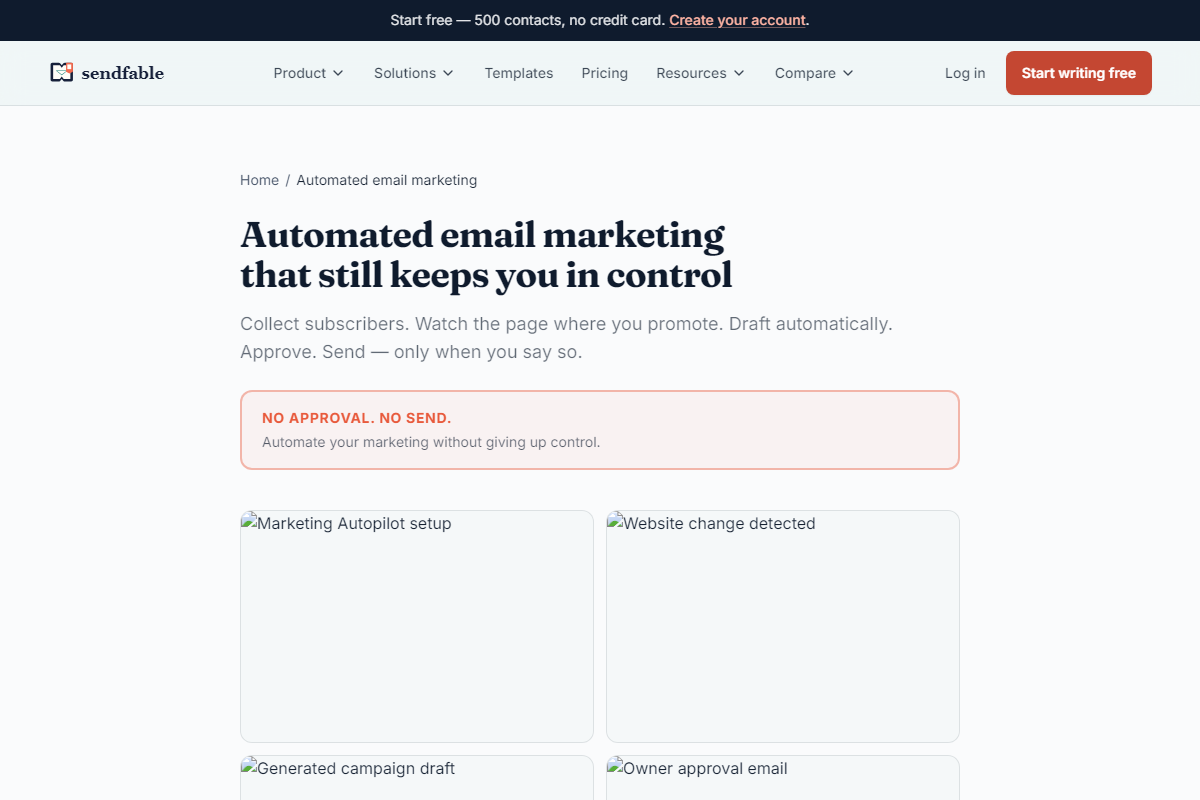
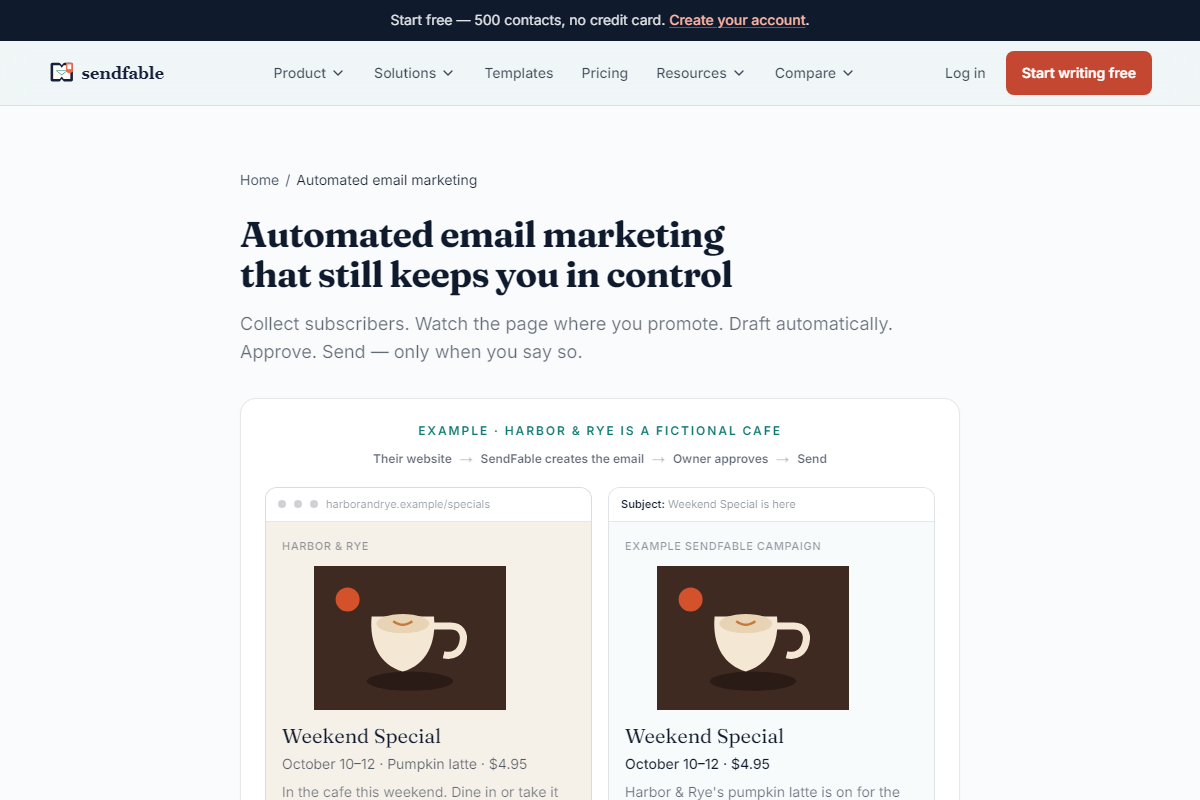
Show how a website special becomes an approved SendFable campaign.
Put a fictional cafe example on the homepage and Autopilot page, and state the live draft limits.

diff --git a/src/components/marketing/website-to-email-proof.tsx b/src/components/marketing/website-to-email-proof.tsx
@@ -1,0 +1,119 @@
+/**
+ * Controlled example: a fictional cafe page becomes a campaign the owner approves.
+ * Not a real business, and not a live send control.
+ */
+
+function LatteArt() {
+  return (
+    <svg viewBox="0 0 160 120" className="h-full w-full" aria-hidden>
+      <rect width="160" height="120" fill="#3f2a22" />
+      <ellipse cx="80" cy="96" rx="36" ry="8" fill="#2a1b16" />
+      <path d="M48 42h52c2 22-6 40-26 46-20-6-28-24-26-46z" fill="#f4e7d4" />
+      <path d="M100 50h14c8 0 12 6 10 14s-8 12-16 10" fill="none" stroke="#f4e7d4" strokeWidth="6" />
+      <ellipse cx="74" cy="48" rx="22" ry="8" fill="#e8d3b4" />
+      <path d="M66 46c6 4 10 4 16 0" fill="none" stroke="#c47a3a" strokeWidth="2" />
+      <circle cx="28" cy="28" r="10" fill="#e4572e" opacity="0.9" />
+    </svg>
+  );
+}
+
+const STEPS = ["Their website", "SendFable creates the email", "Owner approves", "Send"];
+
+export function WebsiteToEmailProof() {
+  return (
+    <figure className="rounded-2xl border border-ink/10 bg-white p-4 shadow-sm sm:p-6">
+      <figcaption className="text-center text-xs font-semibold uppercase tracking-[0.16em] text-teal">
+        Example · Harbor &amp; Rye is a fictional cafe
+      </figcaption>
+      <ol className="mt-3 flex flex-wrap items-center justify-center gap-x-2 gap-y-1 text-xs font-semibold text-ink/70">
+        {STEPS.map((step, i) => (
+          <li key={step} className="flex items-center gap-2">
+            {i > 0 && (
+              <span aria-hidden className="text-ink/30">
+                →
+              </span>
+            )}
+            {step}
+          </li>
+        ))}
+      </ol>
+
+      <div className="mt-5 grid items-stretch gap-4 lg:grid-cols-2">
+        <div className="overflow-hidden rounded-xl border border-ink/10 bg-[#f6f1e8]">
+          <div className="flex items-center gap-2 border-b border-ink/10 bg-white px-3 py-2">
+            <span className="h-2 w-2 rounded-full bg-ink/20" aria-hidden />
+            <span className="h-2 w-2 rounded-full bg-ink/20" aria-hidden />
+            <span className="h-2 w-2 rounded-full bg-ink/20" aria-hidden />
+            <p className="truncate text-[11px] text-ink/50">harborandrye.example/specials</p>
+          </div>
+          <div className="p-4">
+            <p className="text-[11px] font-semibold uppercase tracking-wider text-ink/45">
+              Harbor &amp; Rye
+            </p>
+            <div className="mt-3 overflow-hidden rounded-lg">
+              <div className="aspect-[16/9] max-h-36">
+                <LatteArt />
+              </div>
+            </div>
+            <h3 className="mt-3 font-display text-xl text-ink">Weekend Special</h3>
+            <p className="mt-1 text-sm text-ink/70">October 10–12 · Pumpkin latte · $4.95</p>
+            <p className="mt-2 text-sm text-ink/60">
+              In the cafe this weekend. Dine in or take it to go.
+            </p>
+            <p className="mt-3 inline-block rounded-md bg-ink px-3 py-1.5 text-xs font-semibold text-white">
+              See the special
+            </p>
+          </div>
+        </div>
+
+        <div className="overflow-hidden rounded-xl border border-ink/10 bg-parchment/40">
+          <div className="border-b border-ink/10 bg-white px-3 py-2 text-[11px] text-ink/55">
+            <span className="font-semibold text-ink">Subject:</span> Weekend Special is here
+          </div>
+          <div className="p-4">
+            <p className="text-[11px] font-semibold uppercase tracking-wider text-ink/45">
+              Example SendFable campaign
+            </p>
+            <div className="mt-3 overflow-hidden rounded-lg">
+              <div className="aspect-[16/9] max-h-36">
+                <LatteArt />
+              </div>
+            </div>
+            <h3 className="mt-3 font-display text-xl text-ink">Weekend Special</h3>
+            <p className="mt-1 text-sm font-medium text-ink">October 10–12 · $4.95</p>
+            <p className="mt-2 text-sm text-ink/65">
+              Harbor &amp; Rye&apos;s pumpkin latte is on for the weekend.
+            </p>
+            <p className="mt-3 inline-block rounded-md bg-coral-solid px-3 py-1.5 text-xs font-semibold text-white">
+              See the special
+            </p>
+          </div>
+        </div>
+      </div>
+
+      <div
+        className="mt-4 rounded-xl border border-ink/10 bg-page px-4 py-3"
+        role="group"
+        aria-label="Example approval choices. These are not live send controls."
+      >
+        <p className="text-center text-[11px] font-semibold uppercase tracking-wider text-ink/45">
+          You choose
+        </p>
+        <div className="mt-2 flex flex-wrap items-center justify-center gap-2">
+          <span className="rounded-md bg-teal px-3 py-2 text-sm font-semibold text-white">
+            Approve &amp; send
+          </span>
+          <span className="rounded-md border border-ink/15 bg-white px-3 py-2 text-sm font-semibold text-ink">
+            Edit
+          </span>
+          <span className="rounded-md border border-ink/15 bg-white px-3 py-2 text-sm font-semibold text-ink">
+            Don&apos;t send
+          </span>
+        </div>
+        <p className="mt-3 text-center text-sm font-bold uppercase tracking-wider text-coral">
+          No approval. No send.
+        </p>
+      </div>
+    </figure>
+  );
+}

diff --git a/src/app/(marketing)/automated-email-marketing/page.tsx b/src/app/(marketing)/automated-email-marketing/page.tsx
@@ -4,6 +4,8 @@ import { Breadcrumbs } from "@/components/marketing/breadcrumbs";
 import { Faq } from "@/components/marketing/faq";
 import { MarketingCta } from "@/components/marketing/marketing-cta";
 import { marketingPageMeta, JsonLd } from "@/components/marketing/json-ld";
+import { WebsiteToEmailProof } from "@/components/marketing/website-to-email-proof";
+import { autopilotMaxDraftsPerMonth } from "@/lib/autopilot/plans";
 import { PLANS } from "@/lib/plans";
 
 export const metadata = marketingPageMeta({
@@ -63,7 +65,7 @@ const FAQS = [
   },
   {
     q: "Which plans include Marketing Autopilot?",
-    a: `Free can enable a weekly demo. Starter ($${PLANS.STARTER.monthlyPrice}/mo) includes daily checks. Growth+ can check twice daily. Operating cost stays tiny because we only generate when a meaningful change is detected.`,
+    a: `Free includes weekly checks and ${autopilotMaxDraftsPerMonth("FREE")} drafts a month. Starter ($${PLANS.STARTER.monthlyPrice}/mo) checks daily, up to ${autopilotMaxDraftsPerMonth("STARTER")} drafts a month. Growth and above can check twice a day, up to ${autopilotMaxDraftsPerMonth("GROWTH")} drafts a month. A draft is created only when the page actually changes.`,
   },
   {
     q: "Does Autopilot send texts too?",
@@ -99,6 +101,10 @@ export default function AutomatedEmailMarketingPage() {
         only when you say so.
       </p>
 
+      <div className="mt-8">
+        <WebsiteToEmailProof />
+      </div>
+
       <div className="mt-6 rounded-xl border-2 border-coral/40 bg-coral/5 px-5 py-4">
         <p className="text-sm font-bold uppercase tracking-wider text-coral">No approval. No send.</p>
         <p className="mt-1 text-sm text-ink/70">
@@ -125,9 +131,11 @@ export default function AutomatedEmailMarketingPage() {
               <img
                 src="/product/autopilot-flow.svg"
                 alt={img.alt}
-                className="h-auto w-full"
+                className="h-auto w-full bg-[#f7f3eb] object-contain"
                 width={640}
                 height={420}
+                loading="lazy"
+                decoding="async"
               />
             </picture>
           </figure>
@@ -218,12 +226,16 @@ export default function AutomatedEmailMarketingPage() {
       <section className="mt-16">
         <h2 className="text-2xl font-semibold text-ink">Availability</h2>
         <ul className="mt-4 list-disc space-y-2 pl-5 text-sm text-ink/70">
-          <li>Free — weekly checks, limited drafts (try it)</li>
           <li>
-            Starter (${PLANS.STARTER.monthlyPrice}/mo) — daily Marketing Autopilot
+            Free — weekly checks, {autopilotMaxDraftsPerMonth("FREE")} drafts a month
           </li>
           <li>
-            Growth+ (${PLANS.GROWTH.monthlyPrice}/mo and up) — twice-daily checks
+            Starter (${PLANS.STARTER.monthlyPrice}/mo) — daily checks,{" "}
+            {autopilotMaxDraftsPerMonth("STARTER")} drafts a month
+          </li>
+          <li>
+            Growth and above (${PLANS.GROWTH.monthlyPrice}/mo and up) — twice-daily checks,{" "}
+            {autopilotMaxDraftsPerMonth("GROWTH")} drafts a month
           </li>
         </ul>
       </section>

diff --git a/src/components/marketing/home/marketing-autopilot.tsx b/src/components/marketing/home/marketing-autopilot.tsx
@@ -1,5 +1,6 @@
 import Link from "next/link";
 import { Button } from "@/components/ui/button";
+import { WebsiteToEmailProof } from "@/components/marketing/website-to-email-proof";
 
 const STEPS = [
   { n: "1", title: "Collect", body: "Customer joins your list." },
@@ -31,7 +32,7 @@ export function MarketingAutopilotHome() {
   return (
     <section
       id="marketing-autopilot"
-      className="relative overflow-hidden border-b border-ink/10 bg-gradient-to-b from-parchment via-page to-teal/5 py-20 sm:py-28"
+      className="relative scroll-mt-24 overflow-hidden border-b border-ink/10 bg-gradient-to-b from-parchment via-page to-teal/5 py-20 sm:py-28"
     >
       <div className="pointer-events-none absolute inset-0 opacity-[0.07]" aria-hidden>
         <div className="absolute -left-20 top-10 h-64 w-64 rounded-full bg-coral blur-3xl" />
@@ -51,13 +52,16 @@ export function MarketingAutopilotHome() {
             You approve it.
           </h2>
           <p className="mx-auto mt-4 max-w-2xl text-base text-charcoal/75 sm:text-lg">
-            Collect customers with SendFable forms, point SendFable at the page where you post
-            specials, events, products or news, and get a ready-to-send campaign when something
-            worth sharing changes.
+            Post a special, event, product, or update on your website. SendFable can turn it into a
+            ready-to-send campaign and wait for your approval.
           </p>
           <p className="mt-4 text-sm font-bold uppercase tracking-wider text-coral">
             No approval. No send.
           </p>
+        </div>
+
+        <div className="mx-auto mt-10 max-w-5xl">
+          <WebsiteToEmailProof />
         </div>
 
         <div className="mx-auto mt-12 grid max-w-5xl gap-4 md:grid-cols-3">
@@ -77,7 +81,9 @@ export function MarketingAutopilotHome() {
                   alt={s.alt}
                   width={640}
                   height={420}
-                  className="h-auto w-full object-cover object-top"
+                  loading="lazy"
+                  decoding="async"
+                  className="h-auto w-full bg-[#f7f3eb] object-contain object-top"
                 />
               </picture>
             </figure>

diff --git a/src/app/cert/autopilot-ui/page.tsx b/src/app/cert/autopilot-ui/page.tsx
@@ -21,12 +21,14 @@ export default function AutopilotUiFixturesPage({
         <p className="mb-4 text-center text-xs font-semibold uppercase tracking-wider text-[#0f766e]">
           SendFable · Marketing Autopilot (controlled demo data)
         </p>
-        {view === "setup" && <SetupView />}
-        {view === "detected" && <DetectedView />}
-        {view === "draft" && <DraftView />}
-        {view === "email" && <EmailView />}
-        {view === "confirm" && <ConfirmView />}
-        {view === "result" && <ResultView />}
+        <div id="autopilot-shot">
+          {view === "setup" && <SetupView />}
+          {view === "detected" && <DetectedView />}
+          {view === "draft" && <DraftView />}
+          {view === "email" && <EmailView />}
+          {view === "confirm" && <ConfirmView />}
+          {view === "result" && <ResultView />}
+        </div>
         <nav className="mt-8 flex flex-wrap justify-center gap-2 text-xs text-[#6b7280]">
           {["setup", "detected", "draft", "email", "confirm", "result"].map((v) => (
             <Link key={v} className="underline" href={`/cert/autopilot-ui?view=${v}`}>
@@ -199,7 +201,7 @@ function ResultView() {
         <li>Opens: —</li>
         <li>Status: Completed</li>
       </ul>
-      <p className="mt-4 text-xs text-black/45">Controlled cert result — no customer PII shown.</p>
+      <p className="mt-4 text-xs text-black/45">Demo numbers only. No customer details.</p>
     </Card>
   );
 }

diff --git a/e2e/autopilot-cert.spec.ts b/e2e/autopilot-cert.spec.ts
@@ -6,11 +6,16 @@ import { execFileSync } from "node:child_process";
 const OUT = join(process.cwd(), "docs", "screenshots", "marketing-autopilot");
 const PUBLIC = join(process.cwd(), "public", "product");
 
-async function shot(page: import("@playwright/test").Page, name: string) {
+async function shot(
+  page: import("@playwright/test").Page,
+  name: string,
+  target?: import("@playwright/test").Locator
+) {
   mkdirSync(OUT, { recursive: true });
   mkdirSync(PUBLIC, { recursive: true });
   const pngPath = join(OUT, `${name}.png`);
-  await page.screenshot({ path: pngPath, type: "png", fullPage: false });
+  if (target) await target.screenshot({ path: pngPath, type: "png" });
+  else await page.screenshot({ path: pngPath, type: "png", fullPage: false });
   // Convert to WebP via sharp if available; else keep PNG and copy as fallback
   try {
     // eslint-disable-next-line @typescript-eslint/no-require-imports
@@ -78,7 +83,7 @@ test.describe("Marketing Autopilot certification surfaces", () => {
       await page.setViewportSize({ width: 1200, height: 800 });
       await page.goto(`/cert/autopilot-ui?view=${view}`);
       await expect(page.getByText(/Marketing Autopilot|Campaign|Fall Special|sent/i).first()).toBeVisible();
-      await shot(page, name);
+      await shot(page, name, page.locator("#autopilot-shot"));
     }
 
     await page.goto("/");

diff --git a/src/app/(marketing)/mailchimp-pricing-alternative/page.tsx b/src/app/(marketing)/mailchimp-pricing-alternative/page.tsx
@@ -48,6 +48,16 @@ export default function MailchimpPricingAlternativePage() {
         <li>Pro Plus — ${PLANS.PRO_PLUS.monthlyPrice}/mo · {PLANS.PRO_PLUS.contactCap.toLocaleString()} contacts</li>
       </ul>
 
+      <p className="mt-6 text-sm text-ink/75">
+        Marketing Autopilot is included on those plans. SendFable can watch the page where you
+        already post promotions or events and prepare the customer email for you. Nothing sends
+        until you approve it.{" "}
+        <Link className="text-coral hover:underline" href="/automated-email-marketing">
+          See how it works
+        </Link>
+        .
+      </p>
+
       <h2 className="mt-10 text-xl font-semibold">Approximate Mailchimp snapshot</h2>
       <ul className="mt-3 list-disc space-y-1 pl-5 text-sm text-slate-700">
         {mc.tiers.map((t) => (

diff --git a/src/app/(marketing)/alternatives/mailchimp/page.tsx b/src/app/(marketing)/alternatives/mailchimp/page.tsx
@@ -63,6 +63,10 @@ export default function MailchimpAlternativePage() {
           <li>You want Starter at ${PLANS.STARTER.monthlyPrice}/mo instead of Mailchimp Standard rates near ${mc.tiers.find((t) => t.contacts === 2_500)?.monthlyPrice}/mo at ~2.5k contacts (as of {PRICING_LAST_CHECKED})</li>
           <li>You refuse to require Google login for your team</li>
           <li>You are fine rebuilding automations instead of importing complex journeys</li>
+          <li>
+            You want Marketing Autopilot: SendFable watches the page where you already post
+            promotions or events and prepares the email. Nothing sends until you approve it.
+          </li>
         </ul>
       </section>
 

diff --git a/src/app/(marketing)/email-marketing-pricing-comparison/page.tsx b/src/app/(marketing)/email-marketing-pricing-comparison/page.tsx
@@ -132,6 +132,10 @@ export default function EmailMarketingPricingComparisonPage() {
             contacts · {PLANS.STARTER.emailsPerMonth.toLocaleString()} emails/mo
           </li>
           <li>Campaign-first UI, Simple Mode, Send Confidence, CSV import, hosted forms</li>
+          <li>
+            Email, Text, or Both. Marketing Autopilot is included: a website change becomes a
+            campaign, and nothing sends until you approve it.
+          </li>
         </ul>
         <h3 className="mt-8 text-lg font-semibold text-ink">Where others may win</h3>
         <ul className="mt-3 list-disc space-y-1 pl-5 text-sm text-ink/75">

diff --git a/src/components/marketing/home/pricing-preview.tsx b/src/components/marketing/home/pricing-preview.tsx
@@ -78,7 +78,8 @@ export function PricingPreview({
           </h2>
           <p className="mt-3 text-charcoal/75">
             Limits you can read. Upgrade when your list grows — no mystery add-ons on this page.
-            Marketing Autopilot is included: Free (weekly), Starter (daily), Growth+ (twice daily).
+            Marketing Autopilot is included: Free checks weekly (2 drafts a month), Starter checks
+            daily, and Growth and above can check twice a day.
           </p>
           <div className="mt-8 flex flex-col items-center gap-2">
             {toggle}

diff --git a/src/app/(marketing)/migrate/mailchimp/page.tsx b/src/app/(marketing)/migrate/mailchimp/page.tsx
@@ -36,7 +36,7 @@ const STEPS = [
   },
   {
     name: "Send a test, then a small campaign",
-    text: "Create a short email in Simple Mode, send a test to yourself, then send to a small segment first if the list is large or quiet.",
+    text: "Create a short email in Simple Mode, send a test to yourself, then send to a small segment first if the list is large or quiet. After you are sending, Marketing Autopilot can watch a public promotions page and prepare the next email. Nothing sends until you approve it.",
   },
 ];
 
